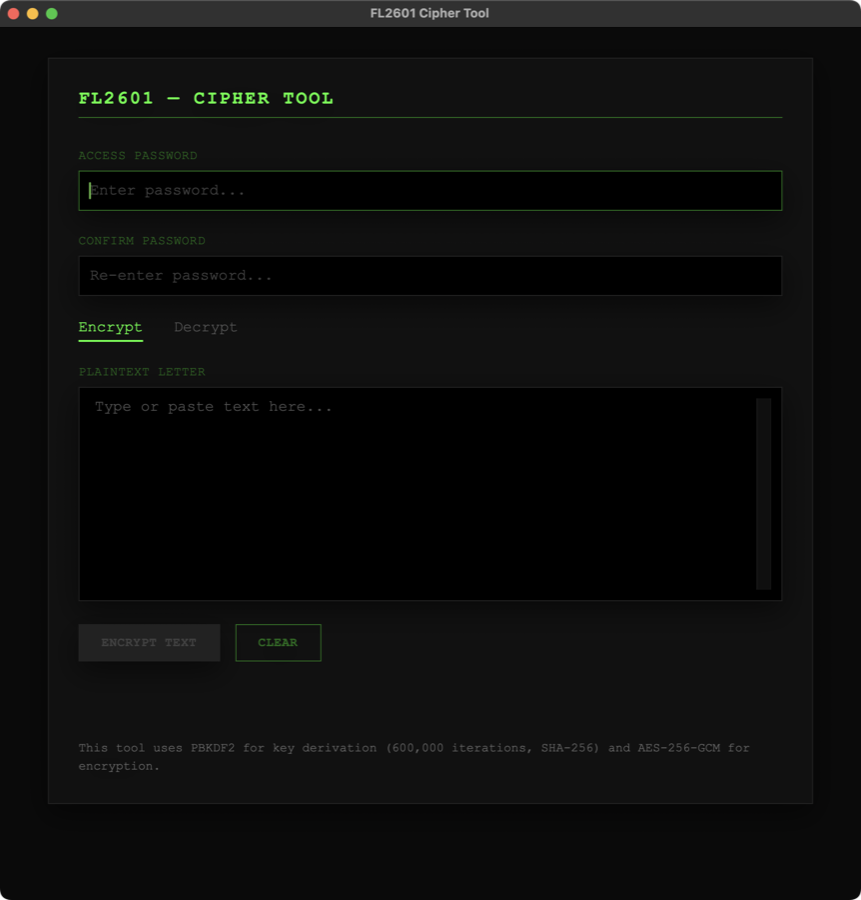
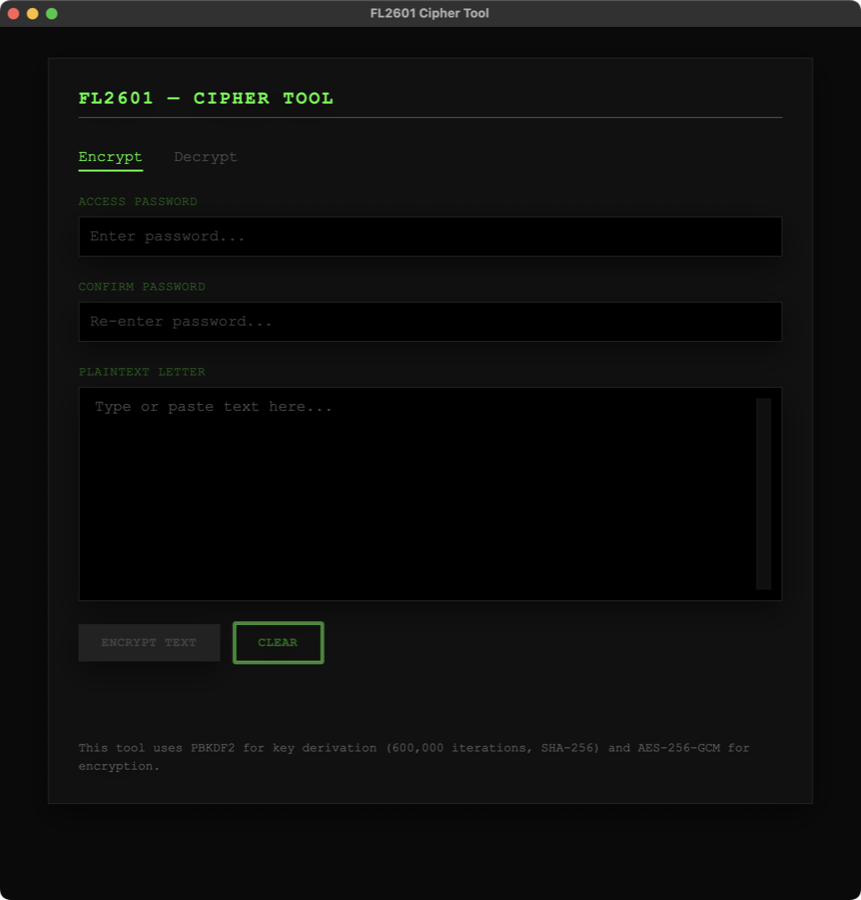
Move mode tabs above the passphrase fields
The confirmation field appears only when encrypting, so anything below
the tabs shifts position when the mode changes. With the tabs underneath
the passphrase field, switching to Decrypt moved the tab strip out from
under the pointer that had just clicked it.

Placing mode selection above the fields it governs keeps the tabs fixed,
and reads in the order the work happens: choose the operation, supply
the passphrase, then the text.

Also replaces docs/screenshot.png, which had captured the window in
Decrypt mode.

Changed region(s): [[0.0906, 0.1556, 0.2718, 0.28], [0.0906, 0.3111, 0.2718, 0.4044], [0.2718, 0.6844, 0.3926, 0.7467]]

diff --git a/FL2601/FL2601/Views/ContentView.swift b/FL2601/FL2601/Views/ContentView.swift
@@ -19,10 +19,14 @@ struct ContentView: View {
         VStack(alignment: .leading, spacing: 0) {
             header
 
-            passwordFields
+            // Mode selection sits above the fields it governs. The confirm
+            // field appears only when encrypting, so anything below the tabs
+            // shifts when the mode changes — keeping the tabs above that point
+            // means the control you just clicked stays put.
+            TabNav(selection: $model.mode)
                 .padding(.bottom, 24)
 
-            TabNav(selection: $model.mode)
+            passwordFields
                 .padding(.bottom, 24)
 
             VStack(alignment: .leading, spacing: 8) {
